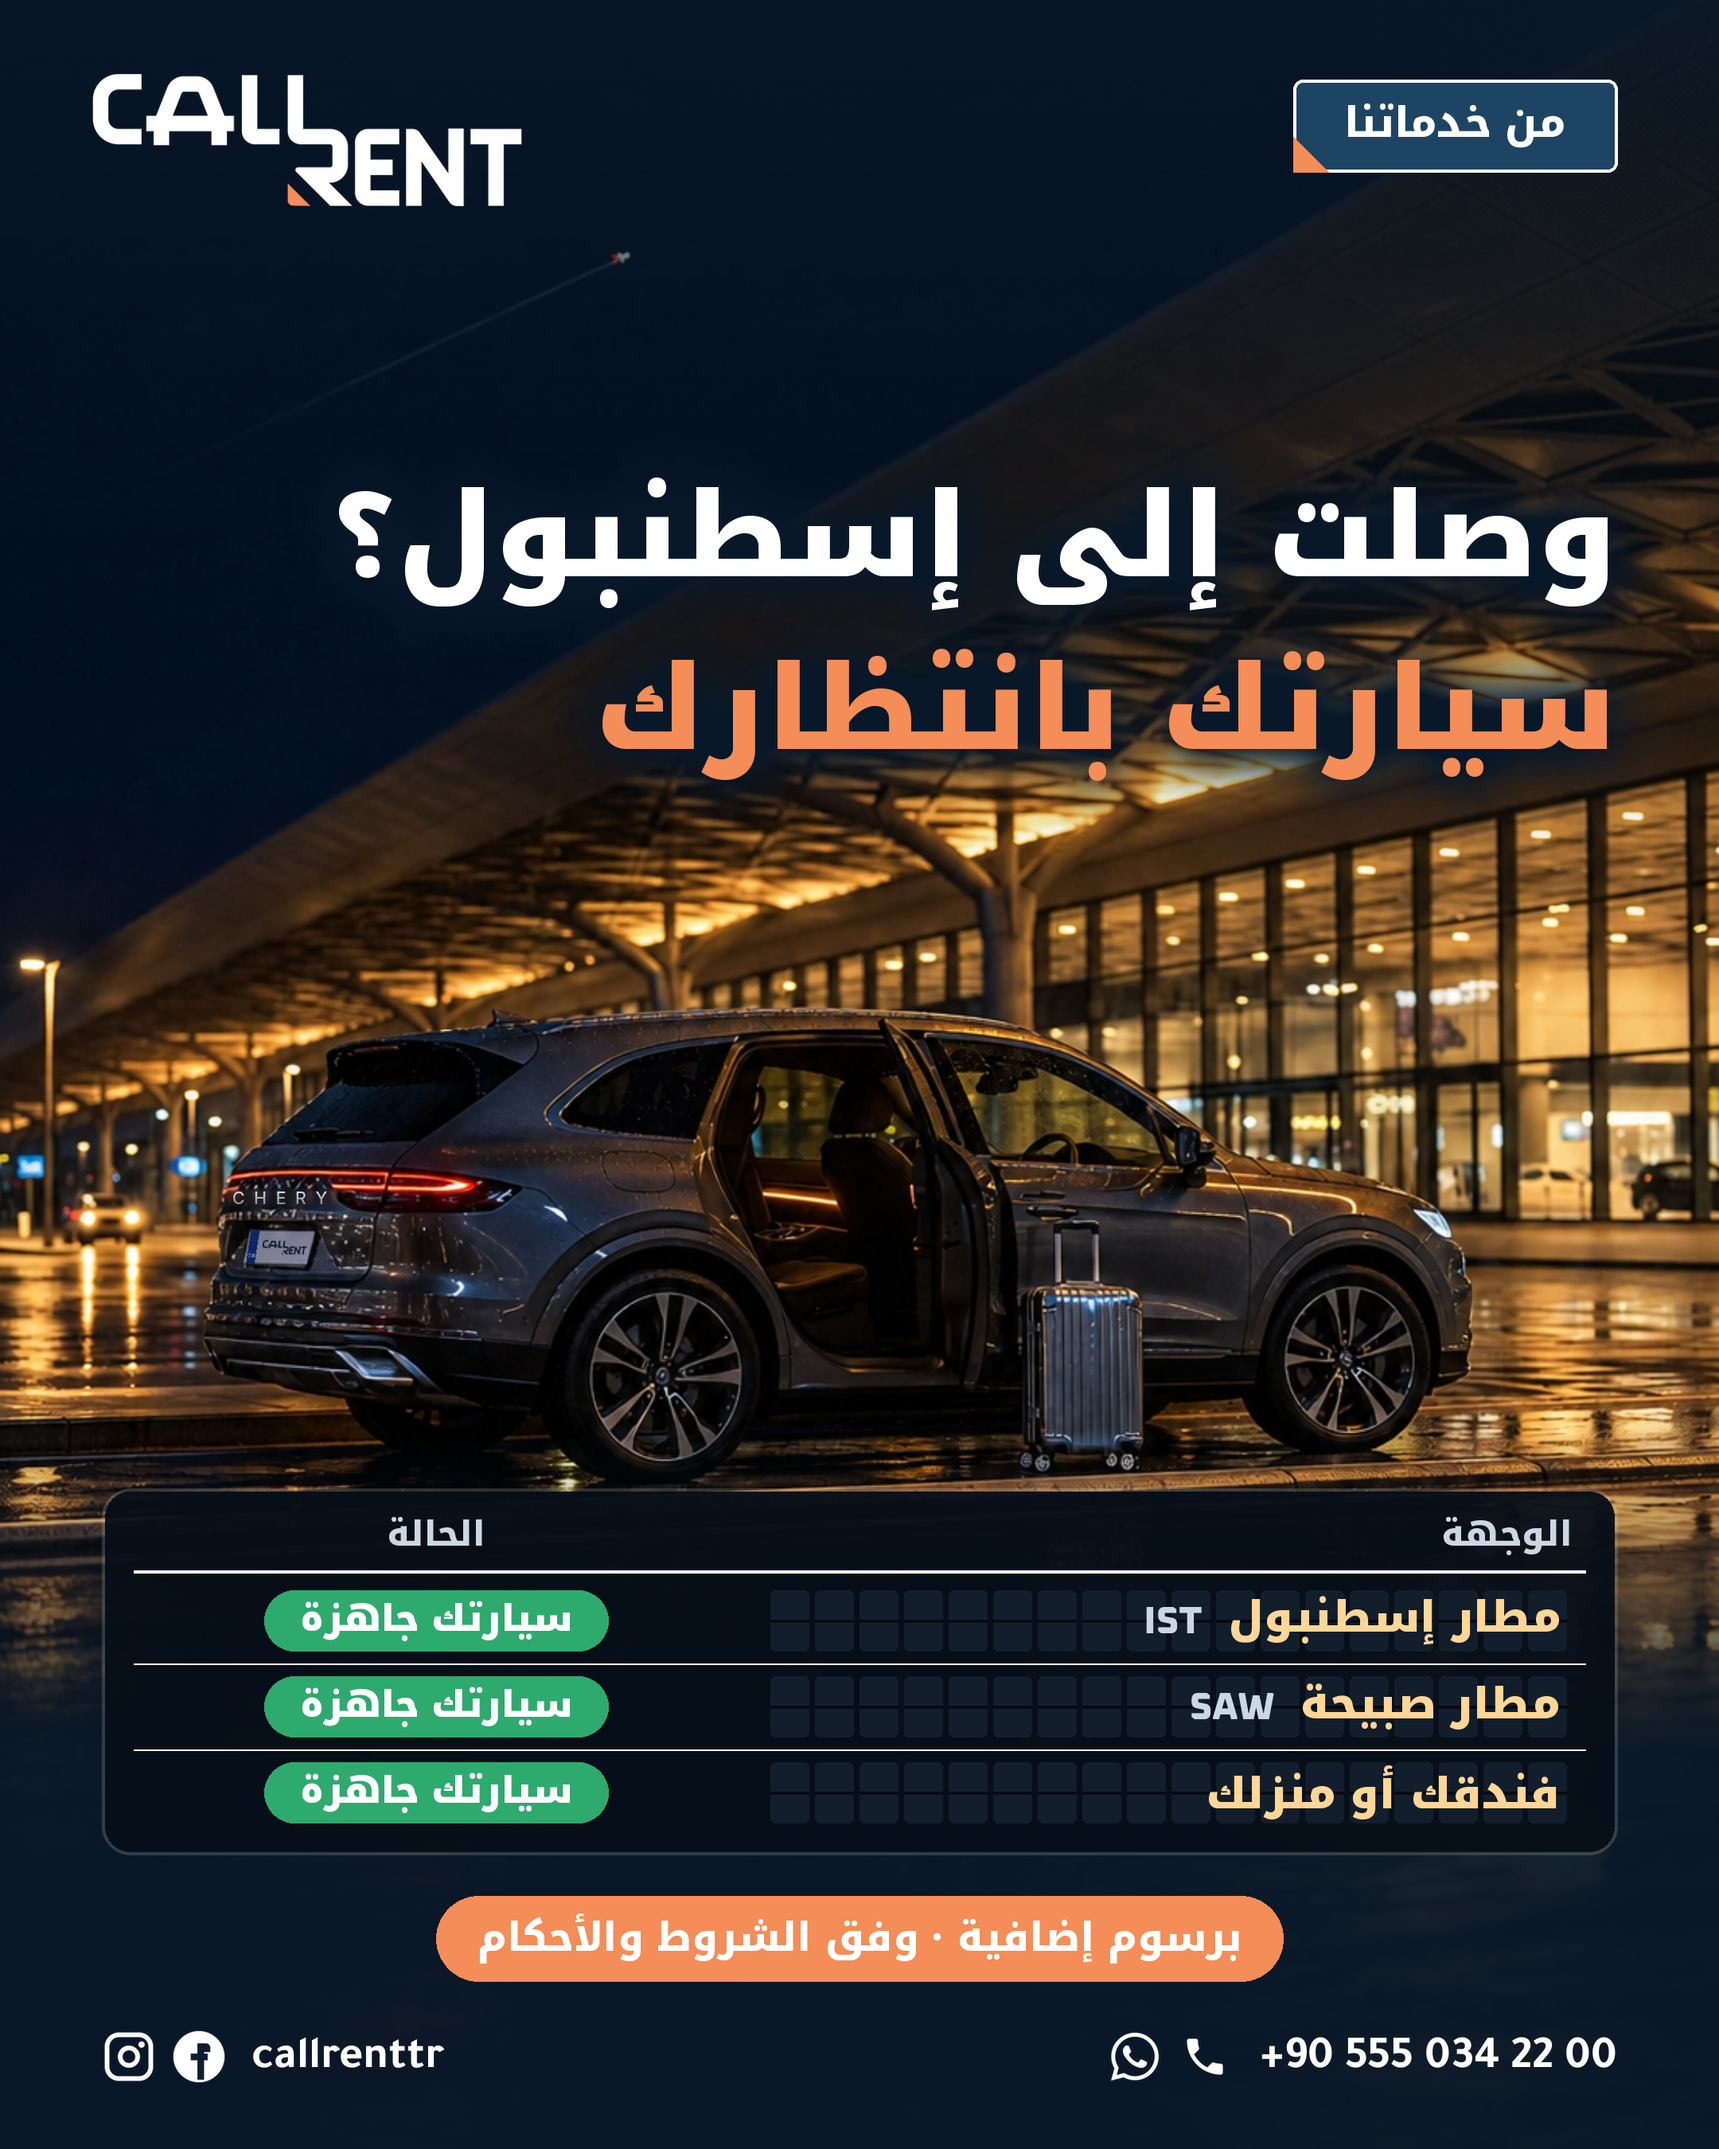
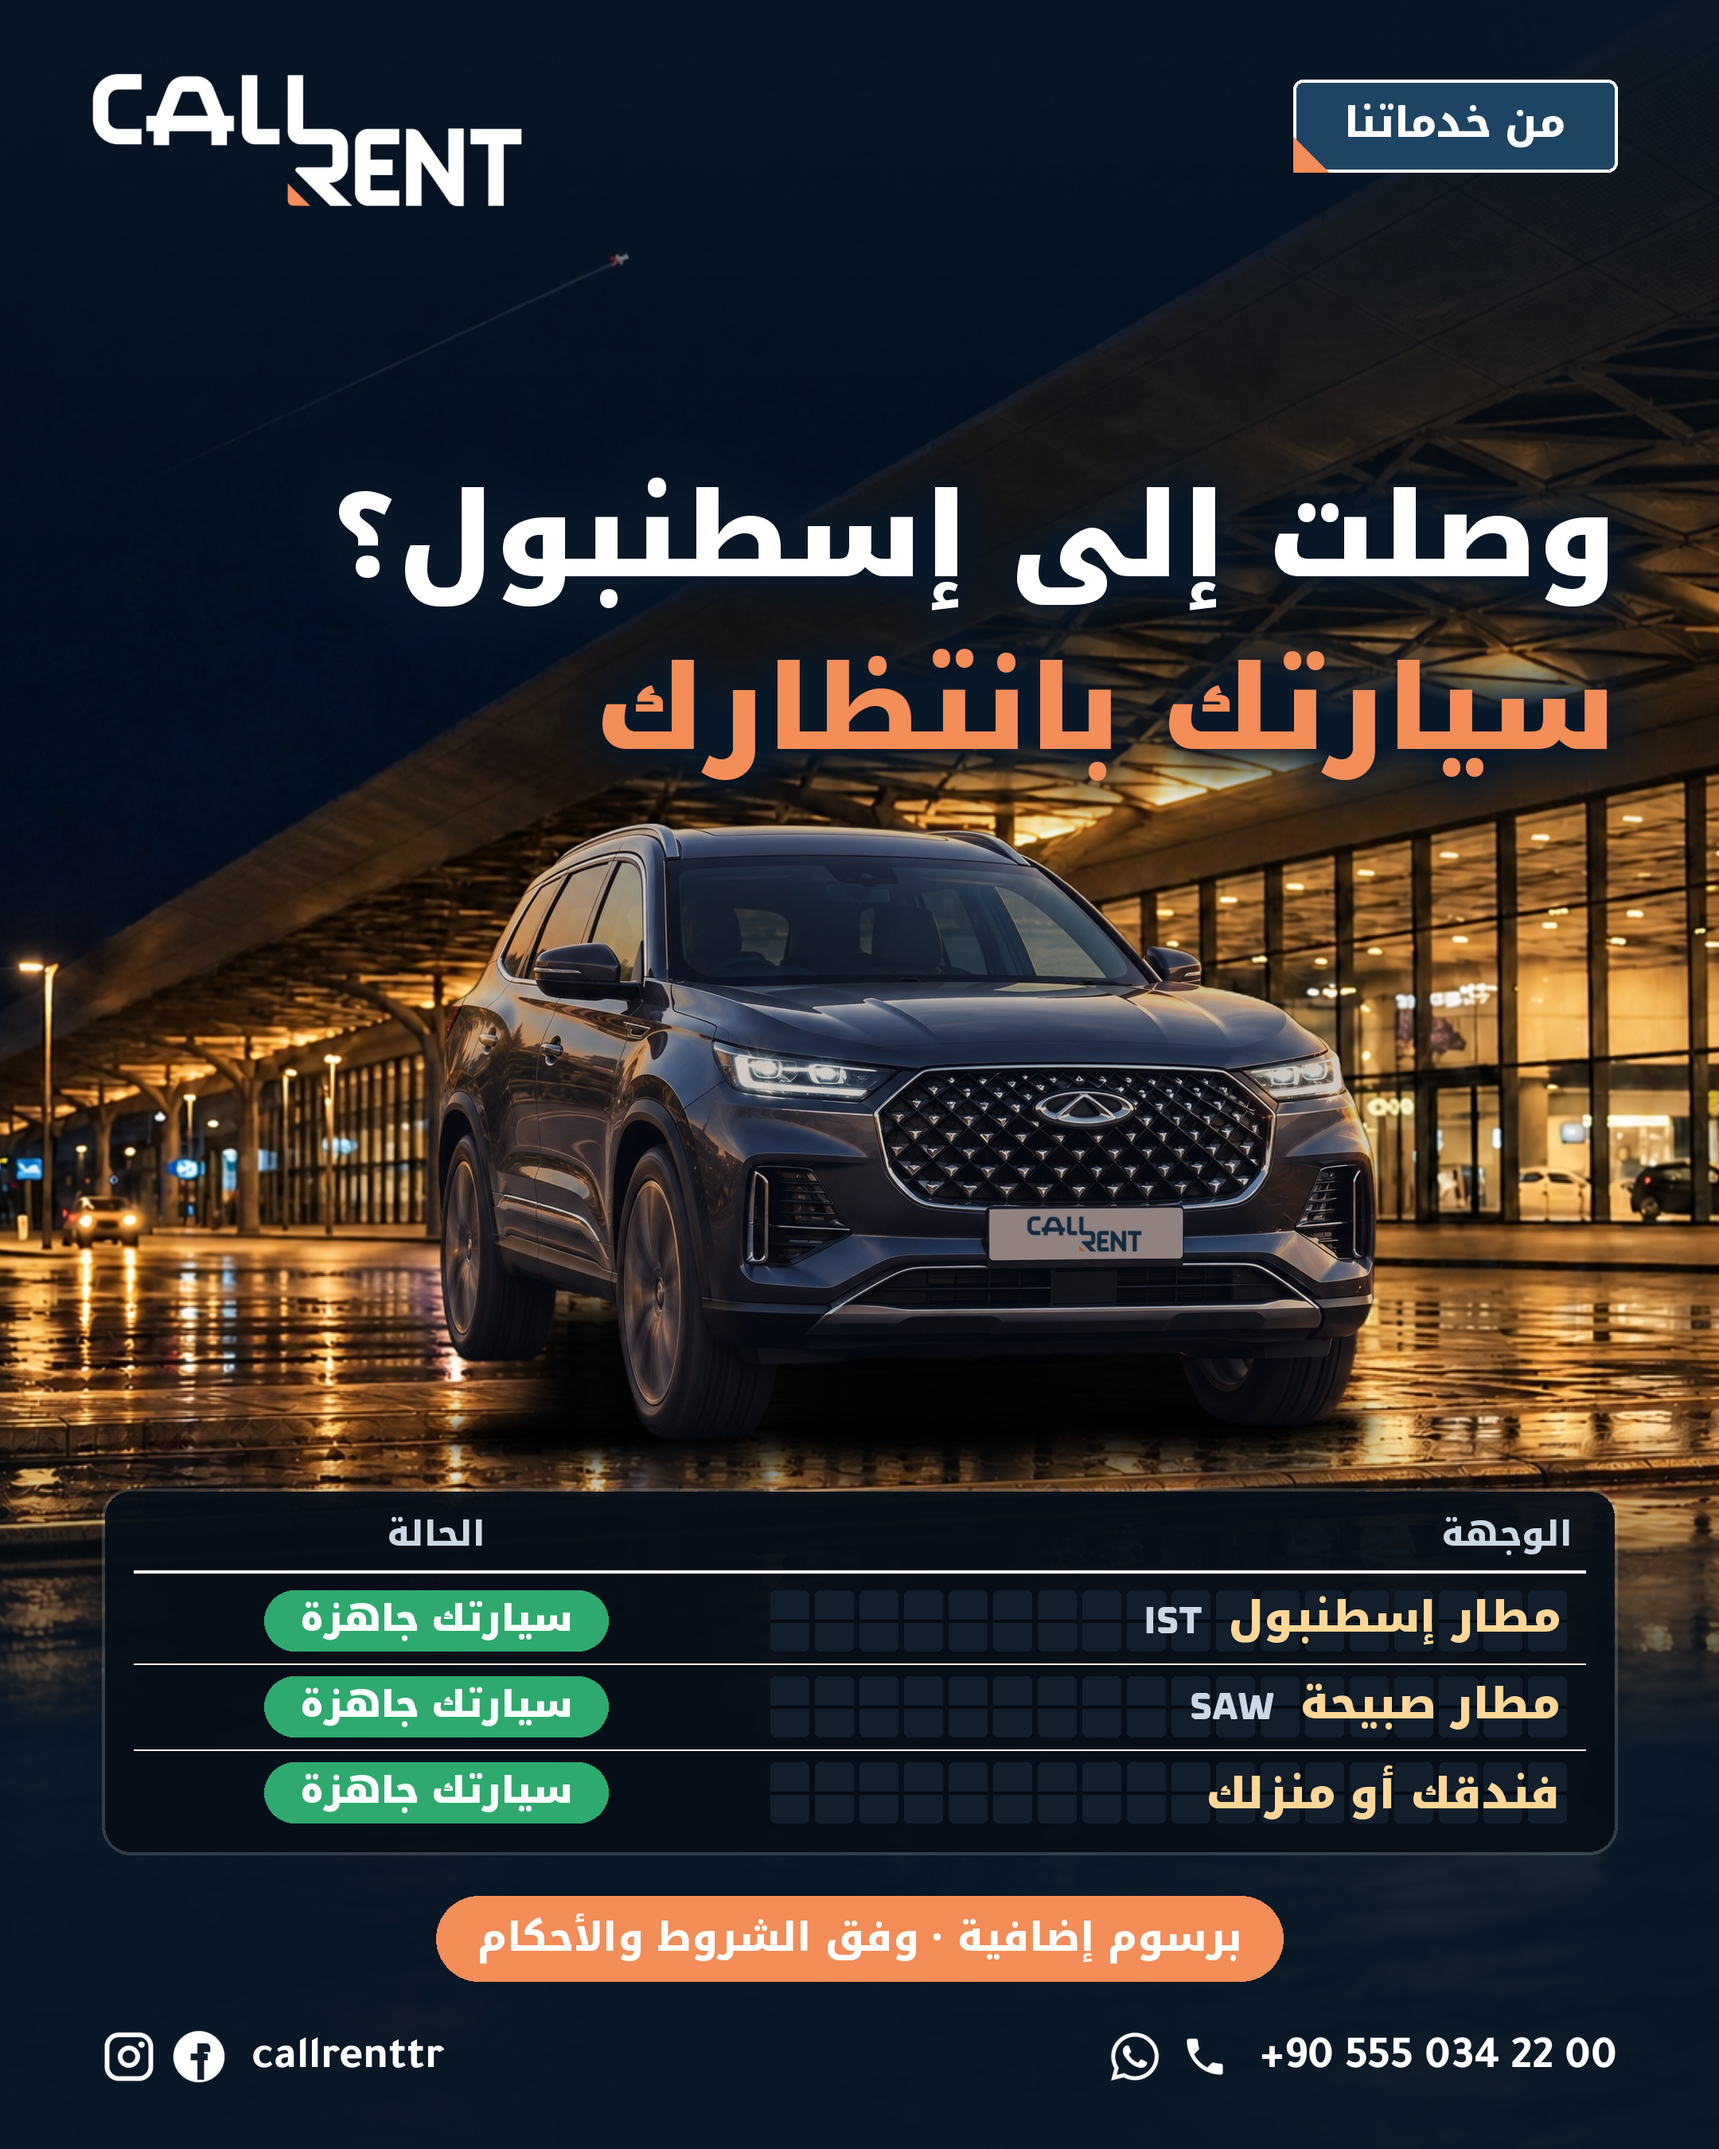
Services: airport post now uses our own Tiggo 8 Pro cutout on an empty Canva airport curb (no fake lettering)
Claude-Session: https://claude.ai/code/session_01JWxxZZBXcuDznNNTjM86b7

diff --git a/marketing/posts/services-nov/compose_air_chery.py b/marketing/posts/services-nov/compose_air_chery.py
@@ -1,0 +1,71 @@
+"""Airport photo for svc-air-a: our own Chery Tiggo 8 Pro cutout (../tiggo8-cutout.png, CALL & RENT plate)
+set on the empty Canva airport curb (air-empty.jpg), facing right like the curb, graded to the night light,
+with a contact shadow and a wet-ground reflection.  Writes air-a.jpg (2160x2700).
+usage: python3 compose_air_chery.py <brand-kit dir>"""
+import sys, os
+import numpy as np
+from PIL import Image, ImageDraw, ImageFilter, ImageEnhance
+HERE = os.path.dirname(os.path.abspath(__file__)); sys.path.insert(0, sys.argv[1])
+from brand import LOGO_NAVY
+
+bg = Image.open(os.path.join(HERE, 'air-empty.jpg')).convert('RGBA')
+car = Image.open(os.path.join(HERE, '..', 'tiggo8-cutout.png')).convert('RGBA')
+
+# plate logo on the blank front plate (cutout px), then mirror so the car faces right
+px0, py0, px1, py1 = 241, 468, 469, 527
+A = np.array(car.convert('RGB')).astype(np.float32)
+plate = tuple(int(v) for v in A[py0+4:py1-4, px0+6:px1-6].reshape(-1, 3).mean(0))
+s = 4; pl = Image.new('RGBA', ((px1-px0)*s, (py1-py0)*s), plate + (255,))
+lg = Image.open(LOGO_NAVY).convert('RGBA'); lh = round(pl.height*0.72); lw = round(lh*lg.width/lg.height)
+if lw > pl.width*0.86: lw = round(pl.width*0.86); lh = round(lw*lg.height/lg.width)
+lg = lg.resize((lw, lh), Image.LANCZOS); k = plate[0]/226; r, g, b, a = lg.split()
+lg = Image.merge('RGBA', tuple(c.point(lambda v: int(v*k)) for c in (r, g, b)) + (a,))
+pl.alpha_composite(lg, ((pl.width-lw)//2, (pl.height-lh)//2))
+car.alpha_composite(pl.resize((px1-px0, py1-py0), Image.LANCZOS).filter(ImageFilter.GaussianBlur(0.5)), (px0, py0))
+
+def mirror_plate(c):
+    """mirror the car but keep the plate reading correctly"""
+    m = c.transpose(Image.FLIP_LEFT_RIGHT)
+    W_ = c.width; box = (W_ - px1, py0, W_ - px0, py1)
+    m.paste(c.crop((px0, py0, px1, py1)), box[:2])
+    return m
+car = mirror_plate(car)
+
+# night grade: darker, cooler shadows, warm terminal light kept in the highlights
+rgb = np.asarray(car).astype(np.float32); al = rgb[..., 3:]
+c = rgb[..., :3]/255; L = c.mean(-1, keepdims=True)
+c = c**1.12*0.80
+c = c*(1 - L*0.0) + (np.array([0.02, 0.03, 0.06]))*(1 - L)          # blue ambient in the darks
+c[..., 0] *= 1.04; c[..., 2] *= 0.97
+car = Image.fromarray(np.concatenate([np.clip(c*255, 0, 255), al], -1).astype(np.uint8), 'RGBA')
+bb = car.getbbox(); car = car.crop(bb)
+
+# place: wheels on the curb (units 1080 -> px x2)
+cw = 1190; car = car.resize((cw, round(car.height*cw/car.width)), Image.LANCZOS)
+cx0 = 1080 - cw//2 + 60; cy1 = 1816; cy0 = cy1 - car.height
+out = bg.copy()
+
+# contact shadow
+sh = Image.new('RGBA', out.size, (0, 0, 0, 0)); d = ImageDraw.Draw(sh)
+d.ellipse((cx0 + 20, cy1 - 60, cx0 + cw - 10, cy1 + 30), fill=(2, 3, 6, 245))
+d.rounded_rectangle((cx0 + 120, cy1 - 190, cx0 + cw - 90, cy1 - 10), radius=60, fill=(1, 2, 4, 250))   # under the body
+out.alpha_composite(sh.filter(ImageFilter.GaussianBlur(22)))
+sh = Image.new('RGBA', out.size, (0, 0, 0, 0)); d = ImageDraw.Draw(sh)
+al_ = np.asarray(car.split()[3]) > 128
+for x0_, x1_ in ((0, cw//3), (cw//3, 2*cw//3), (2*cw//3, cw)):
+    cols = np.where(al_[:, x0_:x1_].any(0))[0]
+    if not len(cols): continue
+    bot = max(np.where(al_[:, x0_ + c_])[0].max() for c_ in cols)
+    d.ellipse((cx0 + x0_ + 10, cy0 + bot - 22, cx0 + x1_ - 10, cy0 + bot + 16), fill=(0, 0, 0, 255))
+out.alpha_composite(sh.filter(ImageFilter.GaussianBlur(10)))
+
+# reflection on the wet pavement
+ref = car.transpose(Image.FLIP_TOP_BOTTOM)
+fade = Image.linear_gradient('L').resize(ref.size).point(lambda v: int(max(0, 255 - v*2.2)*0.42))
+ra = ref.split()[3]; ref.putalpha(Image.fromarray((np.asarray(ra).astype(np.float32)*np.asarray(fade)/255).astype(np.uint8)))
+ref = ref.filter(ImageFilter.GaussianBlur(4))
+out.alpha_composite(ref, (cx0, cy1 - 14))
+
+out.alpha_composite(car, (cx0, cy0))
+out.convert('RGB').save(os.path.join(HERE, 'air-a.jpg'), quality=95)
+print('car box', cx0, cy0, cx0 + cw, cy1)
